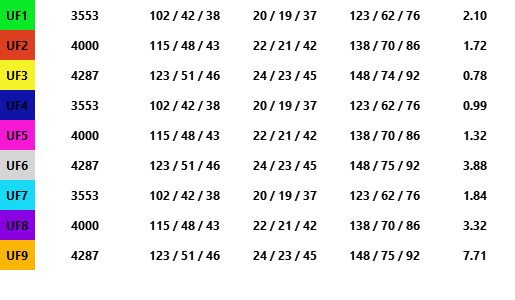
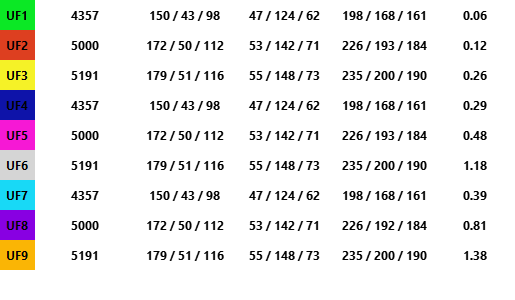
fixed CE load data

diff --git a/dialogs/tools_dockwidget.py b/dialogs/tools_dockwidget.py
@@ -1184,17 +1184,17 @@ class agraeToolsDockwidget(QtWidgets.QDockWidget,toolsDialog):
         name_camp = self.combo_campania.currentText()[2:]
         name_exp = self.combo_explotacion.currentText()
         queries = {
-            'Segmentos': aGraeSQLTools().getSql('segmentos_layers_query.sql').format(self.combo_campania.currentData(),self.combo_explotacion.currentData(),'''select idlote,nombre as lote,codigo as codigo_muestra,segmento,ceap,st_asText(geom) as geom from segm_analitica;'''),
-            'Nitrogeno': aGraeSQLTools().getSql('segmentos_layers_query.sql').format(self.combo_campania.currentData(),self.combo_explotacion.currentData(),'''select idlote,nombre as lote,codigo as codigo_muestra,n,lower(n_tipo) as tipo, n_inc as incremento, st_asText(geom) as geom from segm_analitica;'''),
-            'Fosforo': aGraeSQLTools().getSql('segmentos_layers_query.sql').format(self.combo_campania.currentData(),self.combo_explotacion.currentData(),'''select idlote,nombre as lote,codigo as codigo_muestra,p,lower(p_tipo) as tipo, p_inc as incremento,st_asText(geom) as geom from segm_analitica;'''),
-            'Potasio': aGraeSQLTools().getSql('segmentos_layers_query.sql').format(self.combo_campania.currentData(),self.combo_explotacion.currentData(),'''select idlote,nombre as lote,codigo as codigo_muestra,k,lower(k_tipo) as tipo, k_inc as incremento,st_asText(geom) as geom from segm_analitica;'''),
-            'PH': aGraeSQLTools().getSql('segmentos_layers_query.sql').format(self.combo_campania.currentData(),self.combo_explotacion.currentData(),'''select idlote,nombre as lote,codigo as codigo_muestra,ph as valor,lower(ph_tipo) as tipo,st_asText(geom) as geom from segm_analitica;'''),
-            'Conductividad Electrica': aGraeSQLTools().getSql('segmentos_layers_query.sql').format(self.combo_campania.currentData(),self.combo_explotacion.currentData(),'''select idlote,nombre as lote,codigo as codigo_muestra,ce ,st_asText(geom) as geom from segm_analitica;'''),
-            'Calcio': aGraeSQLTools().getSql('segmentos_layers_query.sql').format(self.combo_campania.currentData(),self.combo_explotacion.currentData(),'''select idlote,nombre as lote,codigo as codigo_muestra,ca,lower(ca_tipo) as tipo,st_asText(geom) as geom from segm_analitica;'''),
-            'Magnesio': aGraeSQLTools().getSql('segmentos_layers_query.sql').format(self.combo_campania.currentData(),self.combo_explotacion.currentData(),'''select idlote,nombre as lote,codigo as codigo_muestra,mg,lower(mg_tipo) as tipo,st_asText(geom) as geom from segm_analitica;'''),
-            'Sodio': aGraeSQLTools().getSql('segmentos_layers_query.sql').format(self.combo_campania.currentData(),self.combo_explotacion.currentData(),'''select idlote,nombre as lote,codigo as codigo_muestra,na,lower(na_tipo) as tipo,st_asText(geom) as geom from segm_analitica;'''),
-            'Azufre': aGraeSQLTools().getSql('segmentos_layers_query.sql').format(self.combo_campania.currentData(),self.combo_explotacion.currentData(),'''select idlote,nombre as lote,codigo as codigo_muestra,s as valor,st_asText(geom) as geom from segm_analitica;'''),
-            'CIC': aGraeSQLTools().getSql('segmentos_layers_query.sql').format(self.combo_campania.currentData(),self.combo_explotacion.currentData(),'''select idlote,nombre as lote,codigo as codigo_muestra,
+            'Segmentos': aGraeSQLTools().getSql('segmentos_layers_query.sql').format(self.combo_campania.currentData(),self.combo_explotacion.currentData(),'''select distinct idlote,nombre as lote,codigo as codigo_muestra,segmento,ceap,st_asText(geom) as geom from segm_analitica;'''),
+            'Nitrogeno': aGraeSQLTools().getSql('segmentos_layers_query.sql').format(self.combo_campania.currentData(),self.combo_explotacion.currentData(),'''select distinct idlote,nombre as lote,codigo as codigo_muestra,n,lower(n_tipo) as tipo, n_inc as incremento, st_asText(geom) as geom from segm_analitica;'''),
+            'Fosforo': aGraeSQLTools().getSql('segmentos_layers_query.sql').format(self.combo_campania.currentData(),self.combo_explotacion.currentData(),'''select distinct idlote,nombre as lote,codigo as codigo_muestra,p,lower(p_tipo) as tipo, p_inc as incremento,st_asText(geom) as geom from segm_analitica;'''),
+            'Potasio': aGraeSQLTools().getSql('segmentos_layers_query.sql').format(self.combo_campania.currentData(),self.combo_explotacion.currentData(),'''select distinct idlote,nombre as lote,codigo as codigo_muestra,k,lower(k_tipo) as tipo, k_inc as incremento,st_asText(geom) as geom from segm_analitica;'''),
+            'PH': aGraeSQLTools().getSql('segmentos_layers_query.sql').format(self.combo_campania.currentData(),self.combo_explotacion.currentData(),'''select distinct idlote,nombre as lote,codigo as codigo_muestra,ph as valor,lower(ph_tipo) as tipo,st_asText(geom) as geom from segm_analitica;'''),
+            'Conductividad Electrica': aGraeSQLTools().getSql('segmentos_layers_query.sql').format(self.combo_campania.currentData(),self.combo_explotacion.currentData(),'''select distinct idlote,nombre as lote,codigo as codigo_muestra,ce ,st_asText(geom) as geom from segm_analitica;'''),
+            'Calcio': aGraeSQLTools().getSql('segmentos_layers_query.sql').format(self.combo_campania.currentData(),self.combo_explotacion.currentData(),'''select distinct idlote,nombre as lote,codigo as codigo_muestra,ca,lower(ca_tipo) as tipo,st_asText(geom) as geom from segm_analitica;'''),
+            'Magnesio': aGraeSQLTools().getSql('segmentos_layers_query.sql').format(self.combo_campania.currentData(),self.combo_explotacion.currentData(),'''select distinct idlote,nombre as lote,codigo as codigo_muestra,mg,lower(mg_tipo) as tipo,st_asText(geom) as geom from segm_analitica;'''),
+            'Sodio': aGraeSQLTools().getSql('segmentos_layers_query.sql').format(self.combo_campania.currentData(),self.combo_explotacion.currentData(),'''select distinct idlote,nombre as lote,codigo as codigo_muestra,na,lower(na_tipo) as tipo,st_asText(geom) as geom from segm_analitica;'''),
+            'Azufre': aGraeSQLTools().getSql('segmentos_layers_query.sql').format(self.combo_campania.currentData(),self.combo_explotacion.currentData(),'''select distinct idlote,nombre as lote,codigo as codigo_muestra,s as valor,st_asText(geom) as geom from segm_analitica;'''),
+            'CIC': aGraeSQLTools().getSql('segmentos_layers_query.sql').format(self.combo_campania.currentData(),self.combo_explotacion.currentData(),'''select distinct idlote,nombre as lote,codigo as codigo_muestra,
             (case when segmento = 1 then 'Rojo' when segmento = 2 then 'Verde' when segmento = 3 then 'Azul' end) as segmento,
             round(cic::numeric,2)::double precision as cic, 
             round(ca::numeric,2)::double precision as ca,
@@ -1202,15 +1202,15 @@ class agraeToolsDockwidget(QtWidgets.QDockWidget,toolsDialog):
             round(k::numeric,2)::double precision as k, 
             round(na::numeric,2)::double precision as na,
             st_asText(geom) as geom from segm_analitica;'''),
-            'Hierro': aGraeSQLTools().getSql('segmentos_layers_query.sql').format(self.combo_campania.currentData(),self.combo_explotacion.currentData(),'''select idlote,nombre as lote,codigo as codigo_muestra,fe,st_asText(geom) as geom from segm_analitica;'''),
-            'Manganeso': aGraeSQLTools().getSql('segmentos_layers_query.sql').format(self.combo_campania.currentData(),self.combo_explotacion.currentData(),'''select idlote,nombre as lote,codigo as codigo_muestra,mn as valor,st_asText(geom) as geom from segm_analitica;'''),
-            'Aluminio': aGraeSQLTools().getSql('segmentos_layers_query.sql').format(self.combo_campania.currentData(),self.combo_explotacion.currentData(),'''select idlote,nombre as lote,codigo as codigo_muestra,al as valor,st_asText(geom) as geom from segm_analitica;'''),
-            'Boro': aGraeSQLTools().getSql('segmentos_layers_query.sql').format(self.combo_campania.currentData(),self.combo_explotacion.currentData(),'''select idlote,nombre as lote,codigo as codigo_muestra,b,st_asText(geom) as geom from segm_analitica;'''),
-            'Cinq': aGraeSQLTools().getSql('segmentos_layers_query.sql').format(self.combo_campania.currentData(),self.combo_explotacion.currentData(),'''select idlote,nombre as lote,codigo as codigo_muestra,zn,st_asText(geom) as geom from segm_analitica;'''),
-            'Cobre': aGraeSQLTools().getSql('segmentos_layers_query.sql').format(self.combo_campania.currentData(),self.combo_explotacion.currentData(),'''select idlote,nombre as lote,codigo as codigo_muestra,cu,st_asText(geom) as geom from segm_analitica;'''),
-            'Materia Organica': aGraeSQLTools().getSql('segmentos_layers_query.sql').format(self.combo_campania.currentData(),self.combo_explotacion.currentData(),'''select idlote,nombre as lote,codigo as codigo_muestra,organi,st_asText(geom) as geom from segm_analitica;'''),
-            'Relacion CN': aGraeSQLTools().getSql('segmentos_layers_query.sql').format(self.combo_campania.currentData(),self.combo_explotacion.currentData(),'''select idlote,nombre as lote,codigo as codigo_muestra,rel_cn,st_asText(geom) as geom from segm_analitica;'''),
-            'Fert Variable Intraparcelaria': aGraeSQLTools().getSql('uf_aportes_query.sql').format(self.combo_campania.currentData(),self.combo_explotacion.currentData(),'''select lote,uf, uf_etiqueta, necesidades_iniciales, fertilizantefondoformula, fertilizantefondocalculado,fertilizantecob1formula, fertilizantecob1calculado,fertilizantecob2formula, fertilizantecob2calculado,fertilizantecob3formula, fertilizantecob3calculado,area_ha,st_asText(geom) as geom from uf_final uf'''),
+            'Hierro': aGraeSQLTools().getSql('segmentos_layers_query.sql').format(self.combo_campania.currentData(),self.combo_explotacion.currentData(),'''select distinct idlote,nombre as lote,codigo as codigo_muestra,fe,st_asText(geom) as geom from segm_analitica;'''),
+            'Manganeso': aGraeSQLTools().getSql('segmentos_layers_query.sql').format(self.combo_campania.currentData(),self.combo_explotacion.currentData(),'''select distinct idlote,nombre as lote,codigo as codigo_muestra,mn as valor,st_asText(geom) as geom from segm_analitica;'''),
+            'Aluminio': aGraeSQLTools().getSql('segmentos_layers_query.sql').format(self.combo_campania.currentData(),self.combo_explotacion.currentData(),'''select distinct idlote,nombre as lote,codigo as codigo_muestra,al as valor,st_asText(geom) as geom from segm_analitica;'''),
+            'Boro': aGraeSQLTools().getSql('segmentos_layers_query.sql').format(self.combo_campania.currentData(),self.combo_explotacion.currentData(),'''select distinct idlote,nombre as lote,codigo as codigo_muestra,b,st_asText(geom) as geom from segm_analitica;'''),
+            'Cinq': aGraeSQLTools().getSql('segmentos_layers_query.sql').format(self.combo_campania.currentData(),self.combo_explotacion.currentData(),'''select distinct idlote,nombre as lote,codigo as codigo_muestra,zn,st_asText(geom) as geom from segm_analitica;'''),
+            'Cobre': aGraeSQLTools().getSql('segmentos_layers_query.sql').format(self.combo_campania.currentData(),self.combo_explotacion.currentData(),'''select distinct idlote,nombre as lote,codigo as codigo_muestra,cu,st_asText(geom) as geom from segm_analitica;'''),
+            'Materia Organica': aGraeSQLTools().getSql('segmentos_layers_query.sql').format(self.combo_campania.currentData(),self.combo_explotacion.currentData(),'''select distinct idlote,nombre as lote,codigo as codigo_muestra,organi,st_asText(geom) as geom from segm_analitica;'''),
+            'Relacion CN': aGraeSQLTools().getSql('segmentos_layers_query.sql').format(self.combo_campania.currentData(),self.combo_explotacion.currentData(),'''select distinct idlote,nombre as lote,codigo as codigo_muestra,rel_cn,st_asText(geom) as geom from segm_analitica;'''),
+            'Fert Variable Intraparcelaria': aGraeSQLTools().getSql('uf_aportes_query.sql').format(self.combo_campania.currentData(),self.combo_explotacion.currentData(),'''select distinct lote,uf, uf_etiqueta, necesidades_iniciales, fertilizantefondoformula, fertilizantefondocalculado,fertilizantecob1formula, fertilizantecob1calculado,fertilizantecob2formula, fertilizantecob2calculado,fertilizantecob3formula, fertilizantecob3calculado,area_ha,st_asText(geom) as geom from uf_final uf'''),
             'Fert Variable Parcelaria': aGraeSQLTools().getSql('uf_aportes_query.sql').format(self.combo_campania.currentData(),self.combo_explotacion.currentData(),'''select distinct lote,fertilizantefondoformula,round(sum(fertilizantefondocalculado * area_ha))::integer dosisfondo,fertilizantecob1formula,round(sum(fertilizantecob1calculado * area_ha))::integer dosiscob1,fertilizantecob2formula,round(sum(fertilizantecob2calculado * area_ha))::integer dosiscob2,fertilizantecob3formula,round(sum(fertilizantecob3calculado * area_ha))::integer dosiscob3,sum(area_ha) area_ha,st_asText(st_union(geom)) geom from uf_final group by lote,fertilizantefondoformula,fertilizantecob1formula,fertilizantecob2formula,fertilizantecob3formula'''),
             'Ceap36 Textura': aGraeSQLTools().getSql('ceap36_layers_query.sql').format(self.combo_campania.currentData(),self.combo_explotacion.currentData()),
             'Ceap36 Infiltracion': aGraeSQLTools().getSql('ceap36_layers_query.sql').format(self.combo_campania.currentData(),self.combo_explotacion.currentData()),

diff --git a/tools/__init__.py b/tools/__init__.py
@@ -339,8 +339,15 @@ class aGraeTools():
         lyr = layer
         srid = lyr.crs().authid()[5:]
         sql = """ insert into agrae.ce(ce36, kf36, ce90, kf90 ,geometria) values """
-        if len(lyr.selectedFeatures()) > 0: features = lyr.selectedFeatures() 
-        else: features = lyr.getFeatures()
+        if len(list(lyr.selectedFeatures())) > 0:
+            features = list(lyr.selectedFeatures())
+        else:
+            features = list(lyr.getFeatures())
+
+        # print(len(features))
+
+        # print(len(list(features)))
+
         try:
             reply = QtWidgets.QMessageBox.question(None,'aGrae Toolbox','Se cargaran {} poligonos a la base de datos,\n este proceso puede tardar. Quiere Continuar?'.format(len(features)),QtWidgets.QMessageBox.Yes, QtWidgets.QMessageBox.No)
             if reply == QtWidgets.QMessageBox.Yes:
@@ -359,10 +366,10 @@ class aGraeTools():
                         # print(sql)
                         cursor.execute(sql[:-2])   
                         self.conn.commit() 
-                        QMessageBox.about(None, 'aGrae GIS', 'CE Cargados Correctamente \na la base de datos')
+                        QMessageBox.about(None, 'aGrae GIS', 'CE Cargados Correctamente a la base de datos')
 
                     except Exception as ex:
-
+                        
                         QgsMessageLog.logMessage(f'{ex}', 'aGrae GIS', level=1)
                         self.conn.rollback()
     
@@ -370,7 +377,6 @@ class aGraeTools():
             QgsMessageLog.logMessage(f'{ex}', 'aGrae GIS', level=1)
             self.conn.rollback()
 
-        pass
         
     def crearRindes(self,
                      layer:QgsVectorLayer,
@@ -618,7 +624,6 @@ class aGraeTools():
         df1 = df
         columns = [c for c in df1.columns]
         _VALUES = list()
-        print(columns)   
         with self.conn.cursor() as cursor:
             try:   
                 for index, r in df1.iterrows():
@@ -626,39 +631,19 @@ class aGraeTools():
                     
                     try:
                         cursor.execute(sql)
-                        self.messages('aGrae GIS','Analitica ({}) Cargada Correctamente'.format(r['COD']),3,alert=True)
-                        self.conn.commit()
+                        
                     except Exception as ex:
                         self.conn.rollback()
                         raise Exception('Ocurrio un Error: {}'.format(ex))
-                    
+                
+                self.conn.commit()
+                self.messages('aGrae GIS','Analitica  Cargada Correctamente',alert=True)
+
             except Exception as ex:
                 QMessageBox.about(None, self.plugin_name, 'Ocurrio un error, revisa el panel de registros para más información')
                 QgsMessageLog.logMessage(f'{ex}', self.plugin_name, level=1)
                 self.conn.rollback()
-            # try:     
-            #     cursor.execute(_SQL_INSERT + ' ,\n'.join(_VALUES))
-            #     self.conn.commit()
-            #     # self.tools.actualizarNecesidades()
-            #     iface.messageBar().pushMessage(self.plugin_name, 'Analitica Cargada Correctamente', level=Qgis.Success)
-            #     QgsMessageLog.logMessage('Analitica Cargada Correctamente', self.plugin_name, level=Qgis.Success)
-                    
-
-            # except errors.lookup('23505'):
-            #     # QMessageBox.about(None, self.plugin_name,'El analisis con codigo: {} ya existe en la base de datos.\nComprueba la informacion'.format(row['COD']))
-            #     # QgsMessageLog.logMessage('El analisis con codigo: {} ya existe en la base de datos.\nComprueba la informacion'.format(row['COD']), self.plugin_name, level=Qgis.Warning)
-            #     # self.conn.rollback()
-            #     _SQL_UPDATE = '''UPDATE analytic.analitica
-            #     SET             idanalitica=nextval('analytic.analitica_idanalitica_seq'::regclass), ceap=0, ph=0, ce=0, carbon=0, caliza=0, ca=0, mg=0, k=0, na=0, n=0, p=0, organi=0, cox=0, rel_cn=0, ca_eq=0, mg_eq=0, k_eq=0, na_eq=0, cic=0, ca_f=0, mg_f=0, k_f=0, na_f=0, al=0, b=0, fe=0, mn=0, cu=0, zn=0, s=0, mo=0, arcilla=0, limo=0, arena=0, ni=0, co=0, ti=0, "as"=0, pb=0, cr=0, metodo=0
-            #     WHERE cod='';'''
-            
-            # except Exception as ex:
-            #     QMessageBox.about(None, self.plugin_name, 'Ocurrio un error, revisa el panel de registros para más información')
-            #     QgsMessageLog.logMessage(f'{ex}', self.plugin_name, level=1)
-            #     self.conn.rollback()
-
-            # self.an_save_bd.setEnabled(False)
-            # QMessageBox.about(self, f"aGrae GIS:",f"Analitica almacenada correctamente")
+           
         
     def crearReporteTest(self):
         #! CREAR BASE DEL ANALISIS DE LABORATORIO

diff --git a/dialogs/datos_base_dialog.py b/dialogs/datos_base_dialog.py
@@ -77,7 +77,7 @@ class GestionDatosBaseDialog(QDialog,agraeDatosBaseDialog):
     def loadCE(self):
          self.tools.crearCE(layer = self.layers_ce.currentLayer(),
                                  field_ce36= self.field_ce36.currentField(),
-                                 field_ce90 = self.field_ce36.currentField())
+                                 field_ce90 = self.field_ce90.currentField())
 
 
 class CrearLotesDialog(QDialog):
